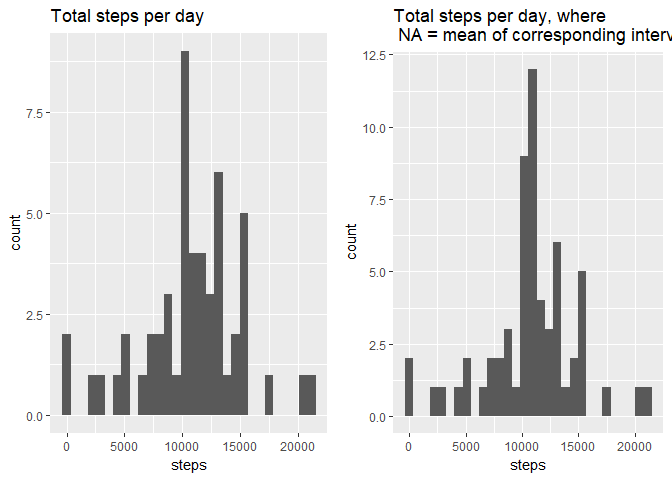
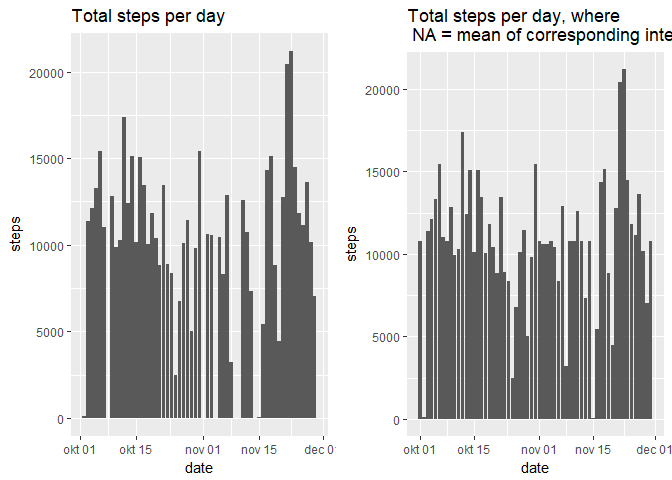
Add files via upload

diff --git a/PA1_template.html b/PA1_template.html
@@ -177,12 +177,12 @@ head(activityperday)</code></pre>
 <li>If you do not understand the difference between a histogram and a barplot, research the difference between them. Make a histogram of the total number of steps taken each day</li>
 </ol>
 <pre class="r"><code>library(ggplot2)
-g1&lt;- ggplot(activityperday, aes(steps)) + 
-  geom_histogram(bins = 30) + 
+g1&lt;- ggplot(activityperday) + 
+  geom_bar( aes(x = date, y = steps), stat = &quot;identity&quot;) + 
   ggtitle(&quot;Total steps per day&quot;)
 
 plot(g1)</code></pre>
[2 lines of base64/hex data omitted]
 <ol start="3" style="list-style-type: decimal">
 <li>Calculate and report the mean and median of the total number of steps taken per day</li>
 </ol>
@@ -258,12 +258,12 @@ library(gridExtra)</code></pre>
 <pre><code>## The following object is masked from 'package:dplyr':
 ## 
 ##     combine</code></pre>
-<pre class="r"><code>g2 &lt;- ggplot(activity.newperday, aes(steps)) + 
-  geom_histogram(bins = 30) + 
+<pre class="r"><code>g2 &lt;- ggplot(activity.newperday) + 
+  geom_bar(aes(x = date, y = steps), stat = &quot;identity&quot;) + 
   ggtitle(&quot;Total steps per day, where \n NA = mean of corresponding interval&quot;)
 
 grid.arrange(g1, g2, ncol = 2)</code></pre>
[2 lines of base64/hex data omitted]
 <pre class="r"><code>mean(activity.newperday$steps)</code></pre>
 <pre><code>## [1] 10766.19</code></pre>
 <pre class="r"><code>median(activity.newperday$steps)</code></pre>

diff --git a/PA1_template.md b/PA1_template.md
@@ -82,8 +82,8 @@ head(activityperday)
 
 ```r
 library(ggplot2)
-g1<- ggplot(activityperday, aes(steps)) + 
-  geom_histogram(bins = 30) + 
+g1<- ggplot(activityperday) + 
+  geom_bar( aes(x = date, y = steps), stat = "identity") + 
   ggtitle("Total steps per day")
 
 plot(g1)
@@ -196,8 +196,8 @@ library(gridExtra)
 ```
 
 ```r
-g2 <- ggplot(activity.newperday, aes(steps)) + 
-  geom_histogram(bins = 30) + 
+g2 <- ggplot(activity.newperday) + 
+  geom_bar(aes(x = date, y = steps), stat = "identity") + 
   ggtitle("Total steps per day, where \n NA = mean of corresponding interval")
 
 grid.arrange(g1, g2, ncol = 2)
